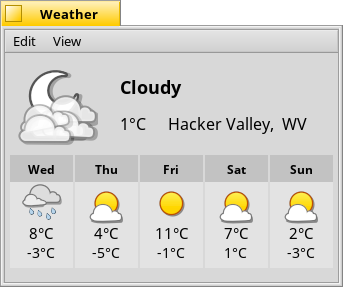
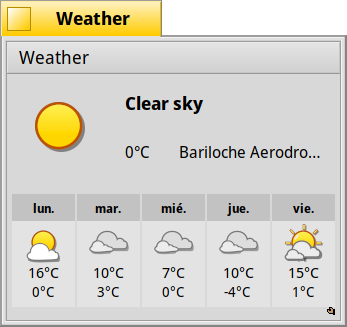
Updated Readme and screenshot

diff --git a/Source/MainWindow.cpp b/Source/MainWindow.cpp
@@ -41,7 +41,7 @@ BMenuBar*
 MainWindow::_PrepareMenuBar(void)
 {
 	BMenuBar* menubar = new BMenuBar("menu");
-	BMenu* menu = new BMenu(B_TRANSLATE("Weather"));
+	BMenu* menu = new BMenu(B_TRANSLATE_SYSTEM_NAME("Weather"));
 	menu->AddItem(new BMenuItem(
 		B_TRANSLATE("Refresh"), new BMessage(kUpdateMessage), 'R'));
 	menu->AddSeparatorItem();

diff --git a/README.md b/README.md
@@ -3,8 +3,8 @@ Weather
 
 ![Weather screenshot](Weather.png "Weather")
 
-Weather is a Haiku application that displays the constantly-updated weather of a specified location (*Edit --> Change location*). It shows the current condition there and a forecast of the next 5 days.
-The temperature can be displayed in degrees Celsius and Fahrenheit (*Edit --> Preferences*).
+Weather is a Haiku application that displays the constantly-updated weather of a specified location (*Weather --> Change location*). It shows the current condition there and a forecast of the next 5 days.
+The temperature can be displayed in degrees Celsius and Fahrenheit (*Weather --> Preferences*).
 
 Weather displays daily highs/lows and cloudiness, precipitation, and sunlight. As a replicant, Weather can be easily integrated into the Desktop.
 
